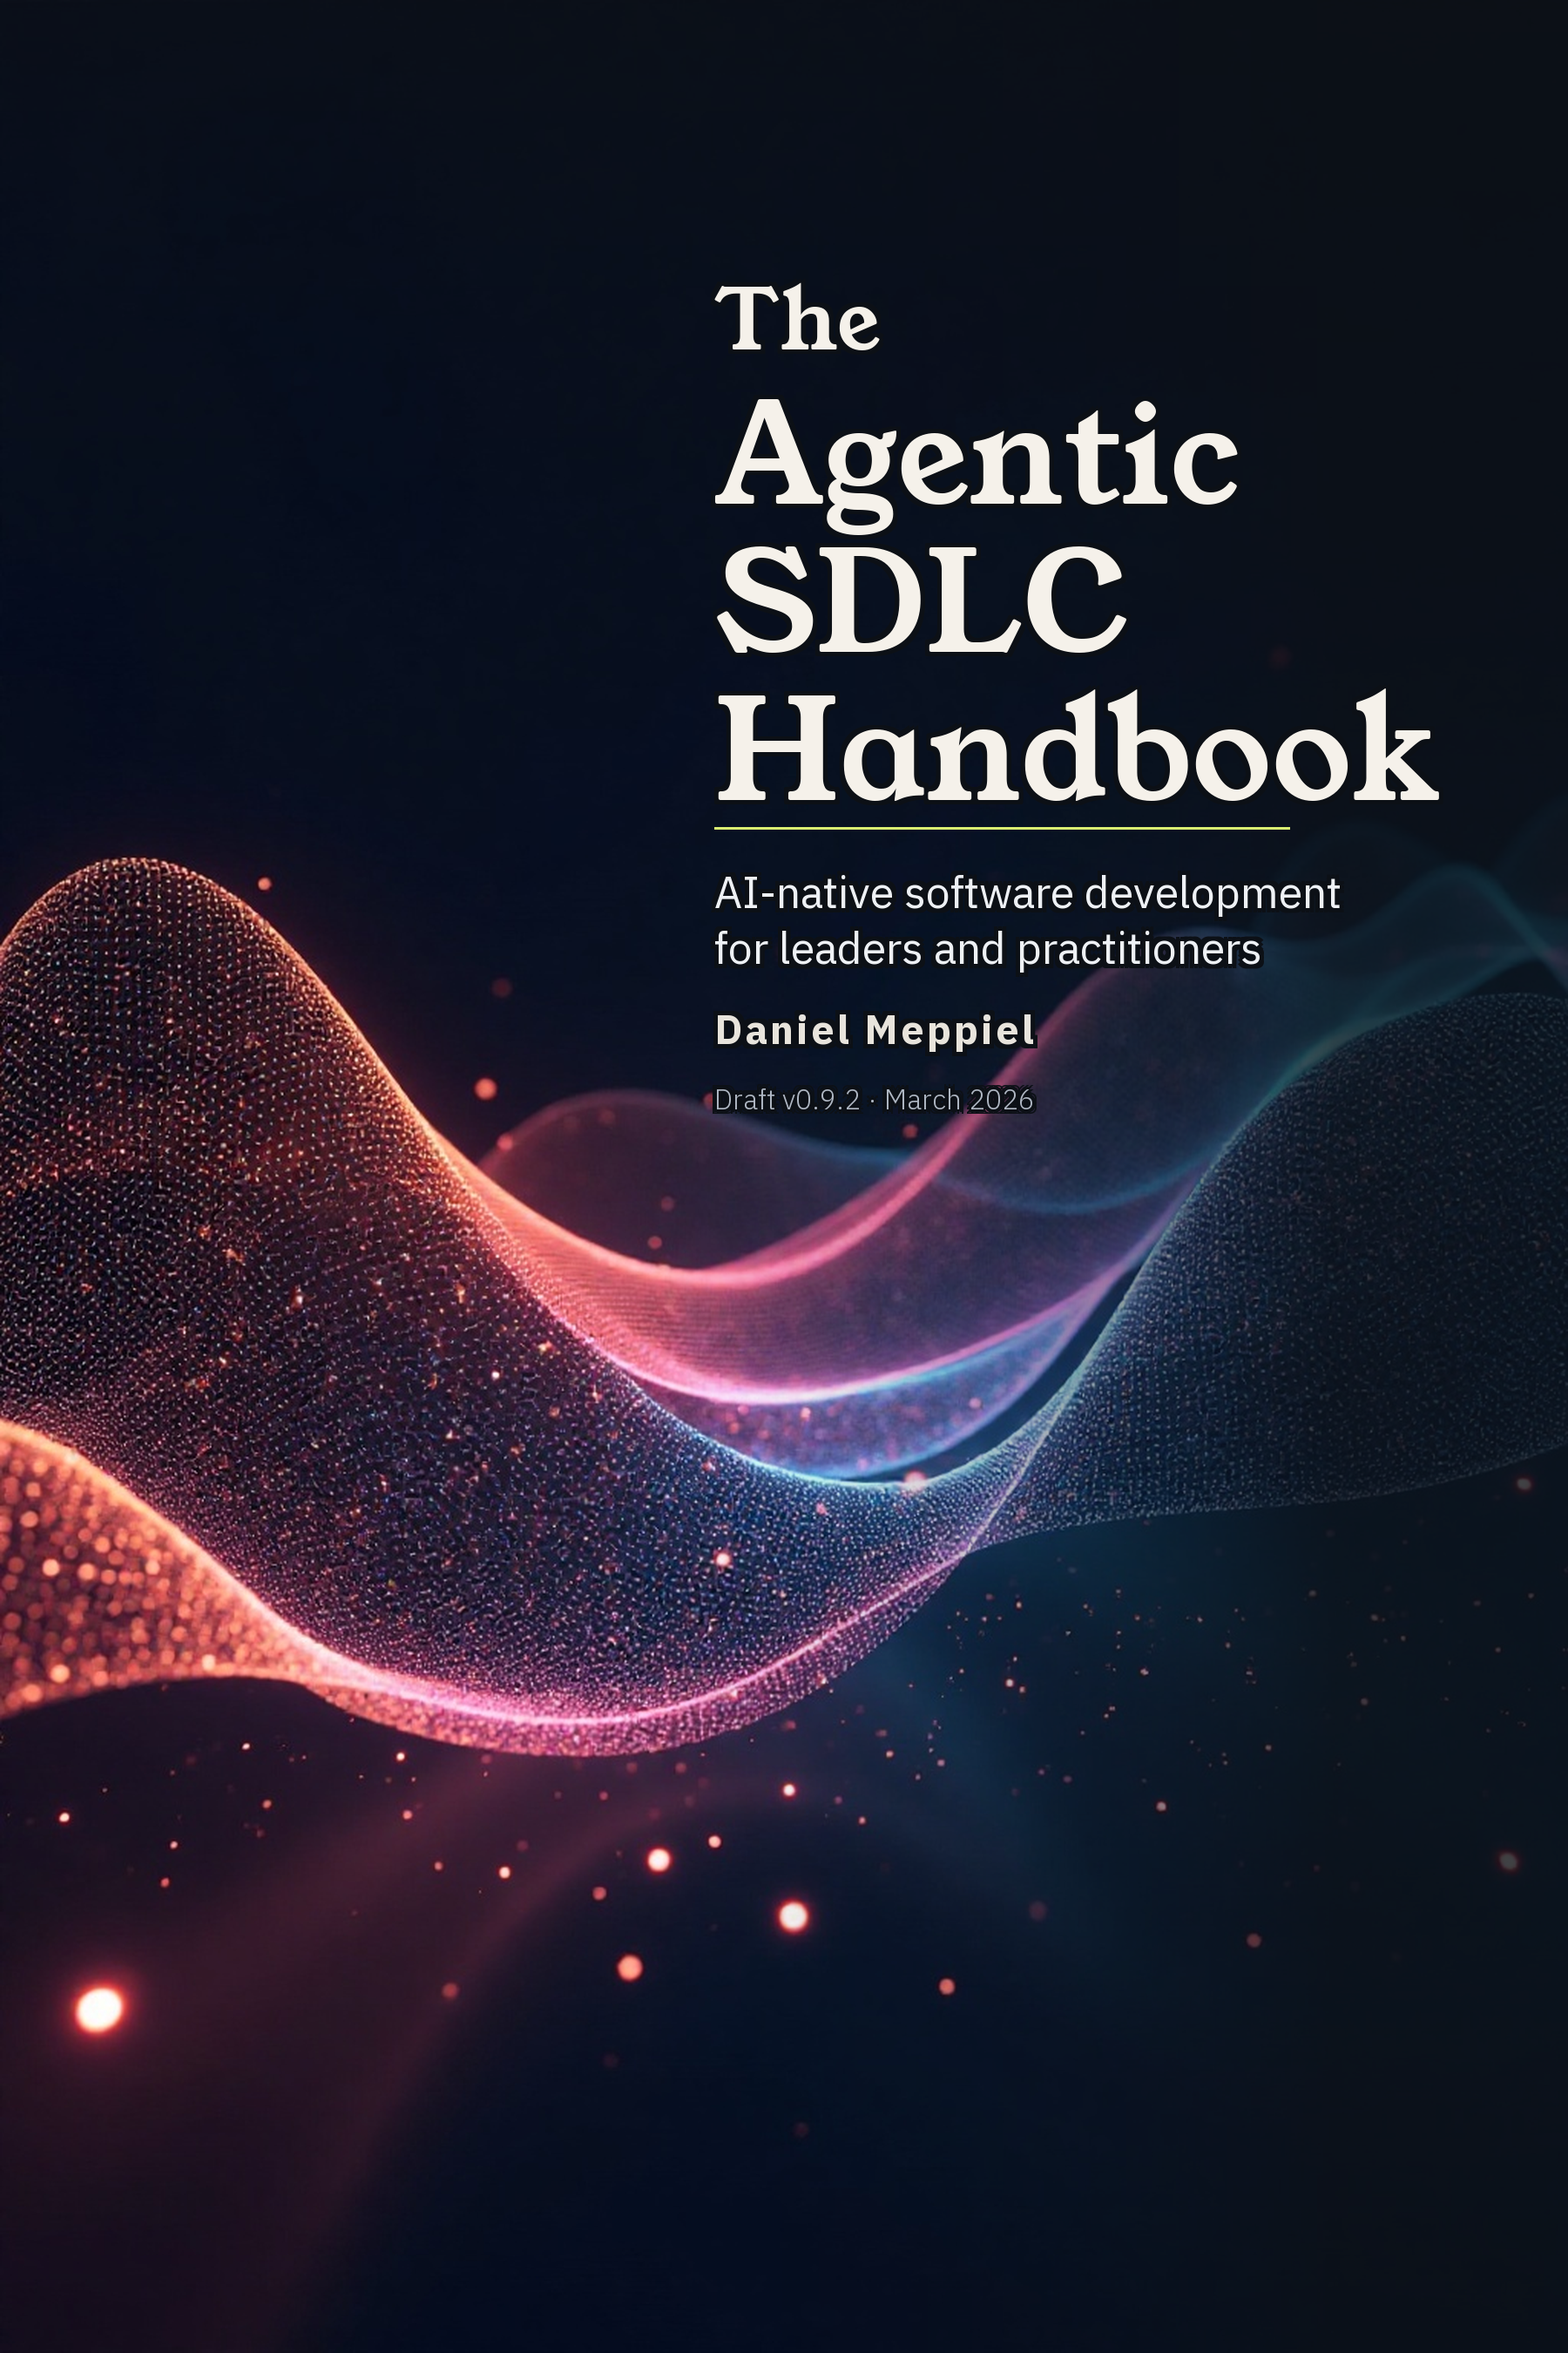
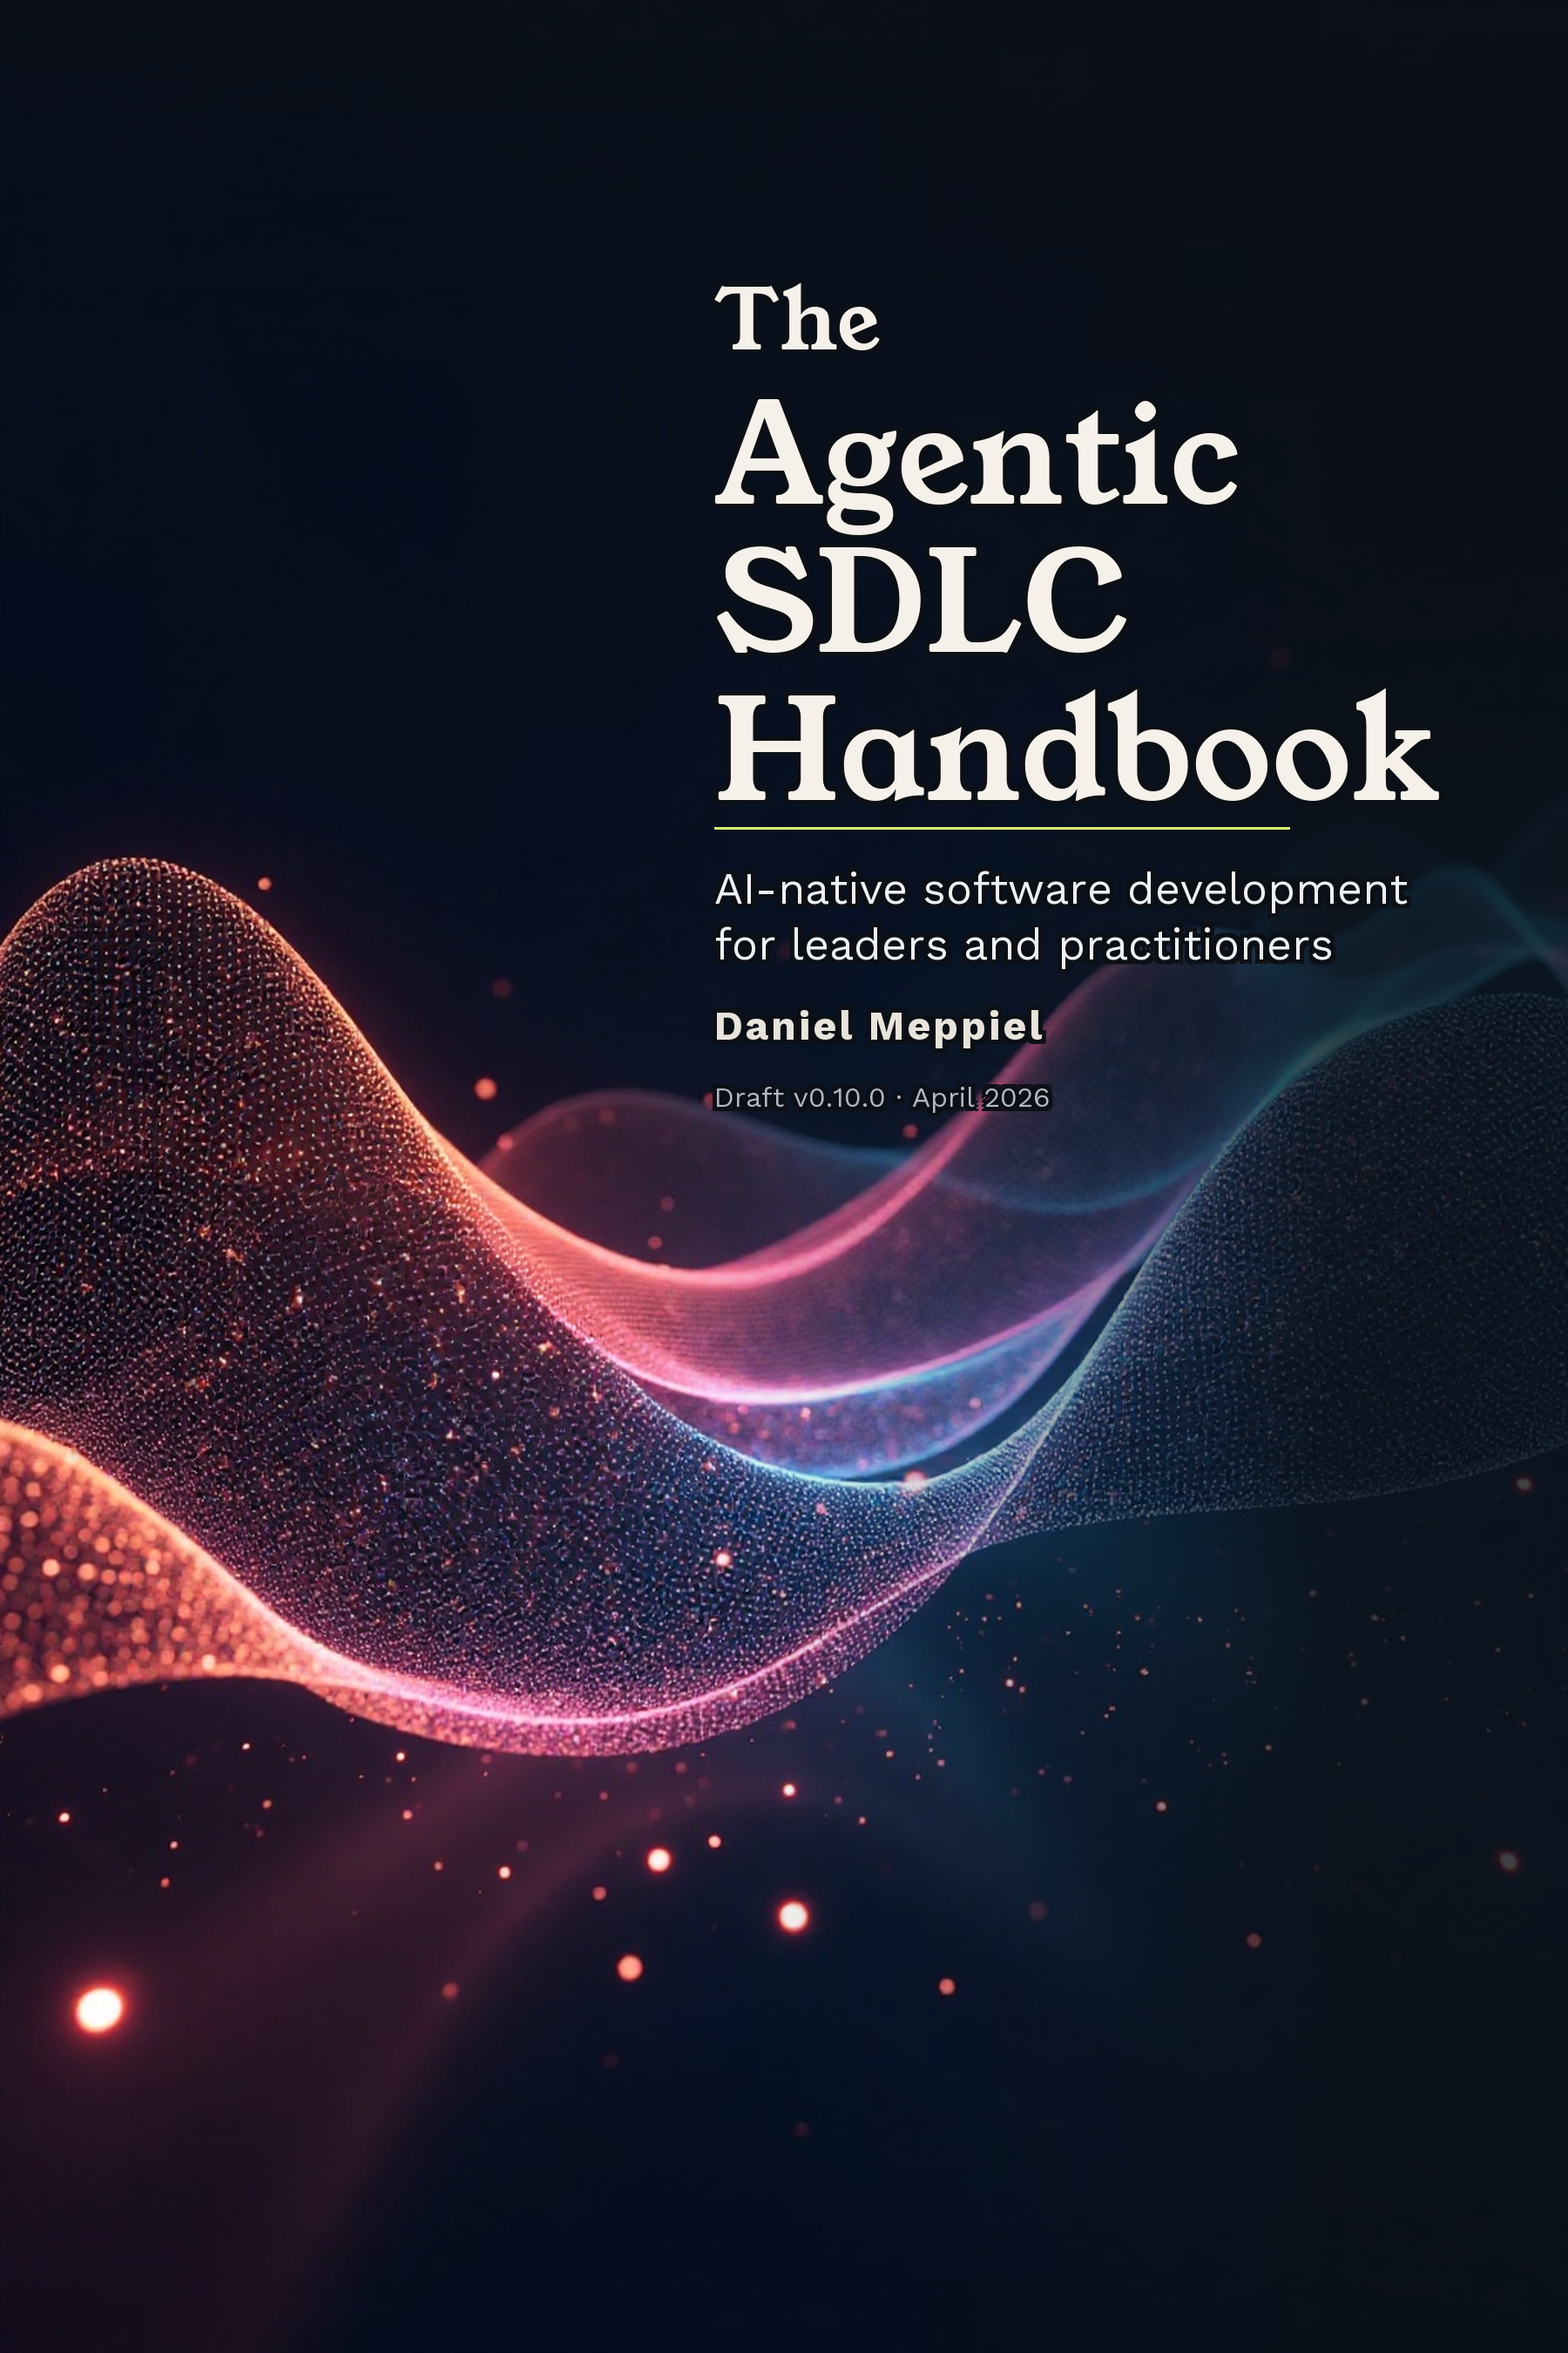
release: v0.10.0 — Practitioner Block v2 ship + cover font-fallback fix
Cover meta-text was rendering at ~10px (PIL bitmap default) because
commit fd22614 deleted IBMPlexSans-{Light,Regular}.ttf from
canvas-fonts/ when refactoring canvas-design to a transitive APM
dep. The sans-light load_font() call silently fell through to
ImageFont.load_default(), which ignores the size parameter.

Fix:
- Expand sans / sans-bold / sans-light candidate lists with fonts
  that actually exist locally (WorkSans, InstrumentSans) plus
  cross-platform system fallbacks (HelveticaNeue.ttc, Arial.ttf).
- Restore meta_font to the original 32px (the v0.9.2 working value).

Bumps version to v0.10.0 and regenerates cover PNG.

Changed region(s): [[0.4667, 0.3733, 0.9022, 0.4978]]

diff --git a/scripts/generate_cover_asset.py b/scripts/generate_cover_asset.py
@@ -34,16 +34,24 @@ def load_font(size: int, role: str) -> ImageFont.FreeTypeFont | ImageFont.ImageF
     ]
     sans_candidates = [
         FONTS_DIR / "IBMPlexSans-Regular.ttf",
+        FONTS_DIR / "WorkSans-Regular.ttf",
+        FONTS_DIR / "InstrumentSans-Regular.ttf",
         Path("/System/Library/Fonts/HelveticaNeue.ttc"),
         Path("/System/Library/Fonts/Supplemental/Arial.ttf"),
     ]
     sans_bold_candidates = [
         FONTS_DIR / "IBMPlexSans-Bold.ttf",
+        FONTS_DIR / "WorkSans-Bold.ttf",
+        FONTS_DIR / "InstrumentSans-Bold.ttf",
         Path("/System/Library/Fonts/HelveticaNeue.ttc"),
     ]
     sans_light_candidates = [
         FONTS_DIR / "IBMPlexSans-Light.ttf",
         FONTS_DIR / "IBMPlexSans-Regular.ttf",
+        FONTS_DIR / "WorkSans-Regular.ttf",
+        FONTS_DIR / "InstrumentSans-Regular.ttf",
+        Path("/System/Library/Fonts/HelveticaNeue.ttc"),
+        Path("/System/Library/Fonts/Supplemental/Arial.ttf"),
     ]
     if role == "serif":
         candidates = serif_candidates
